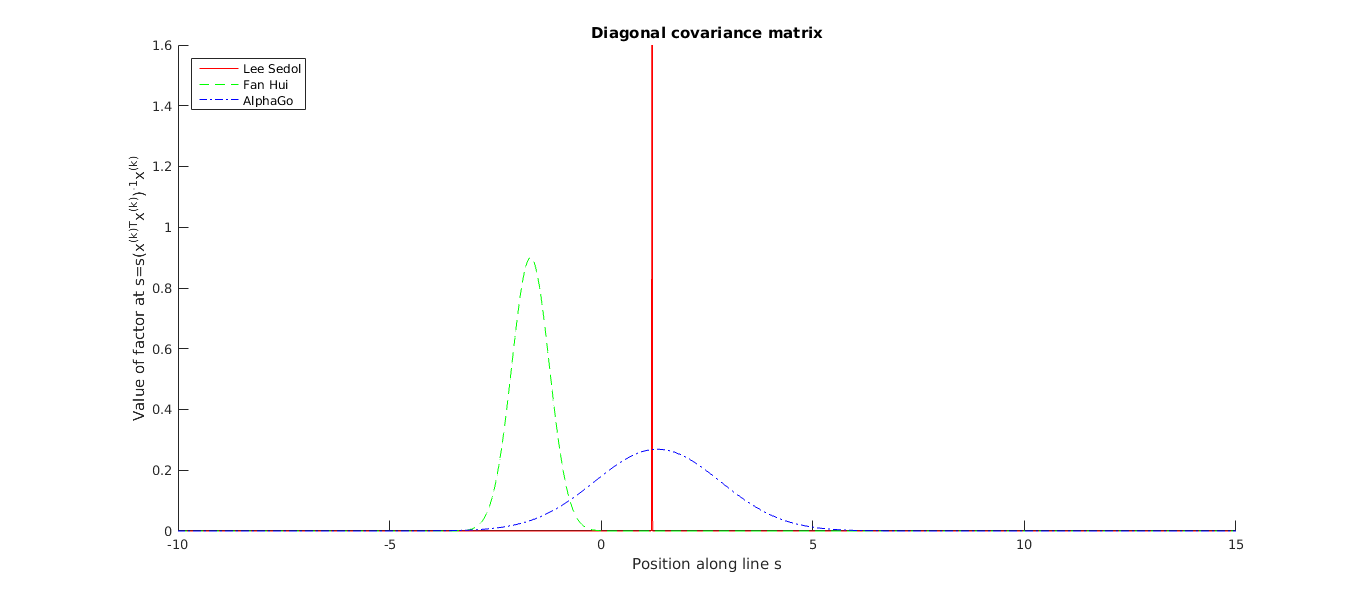
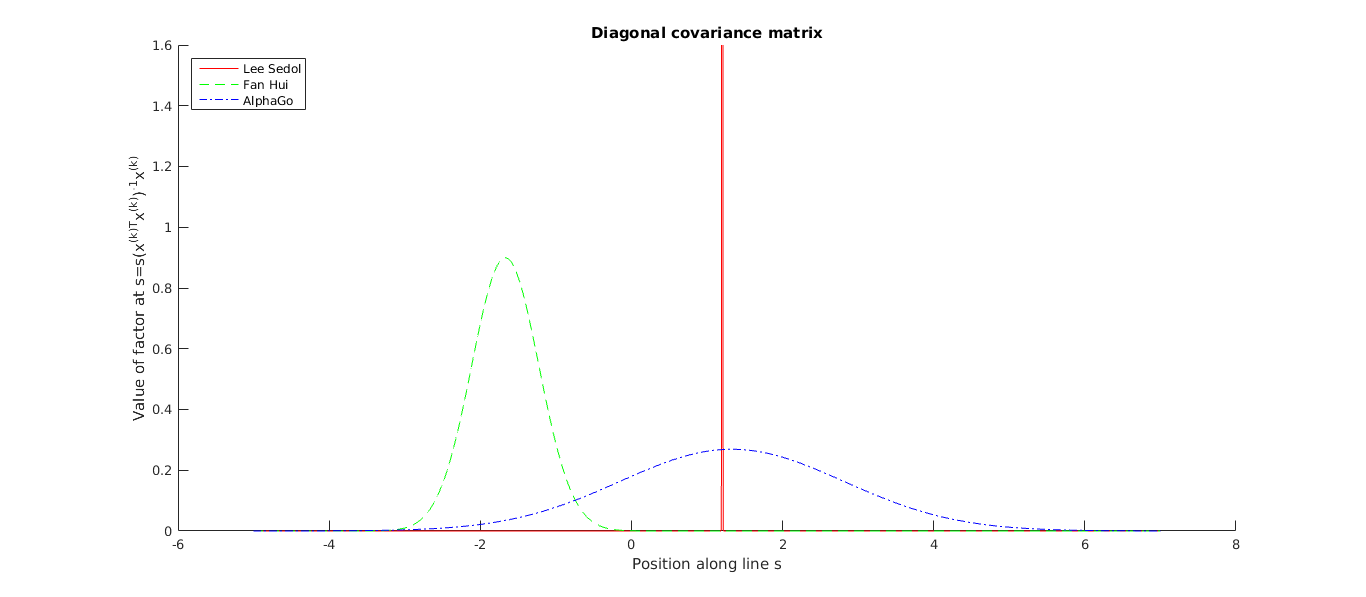
edited images for 3b

diff --git a/task3b.m b/task3b.m
@@ -4,12 +4,8 @@ function [] = task3b()
 
     load('go_player_skill_model/diag_covar.mat');
     
-    % take a sample
-    %skill_sample = approx_mean(lee_sedol_id) + randn(1, n_players) .* approx_covar(lee_sedol_id).^0.5;
-    
     % set axis
-    %x = -3:.105255:3;
-    x = -10:.0025:15;
+    x = -5:.0012:7;
     
     figure(1);
     hold on;
@@ -25,8 +21,6 @@ function [] = task3b()
     
     load('go_player_skill_model/full_covar.mat');
     
-    %x = -3:.1063905:3;
-    
     figure(2);
     hold on;
     title('Full covariance matrix');
@@ -39,8 +33,5 @@ function [] = task3b()
     ylabel('Value of factor at s=s(x^{(k)T}x^{(k)})^{-1}x^{(k)}');
     hold off;
     drawnow;
-    
-
-
 end
 
